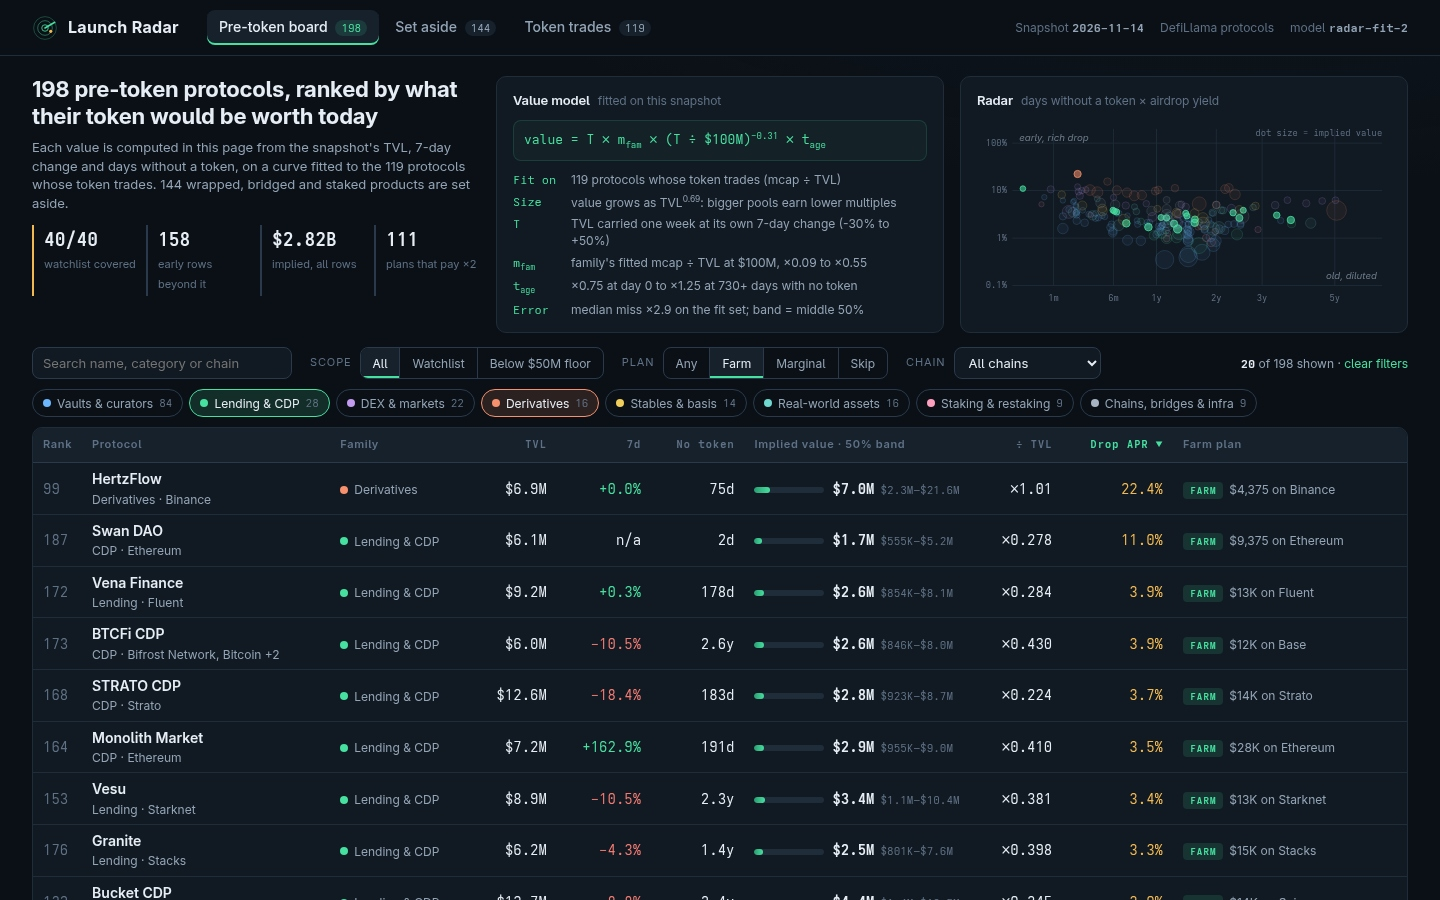
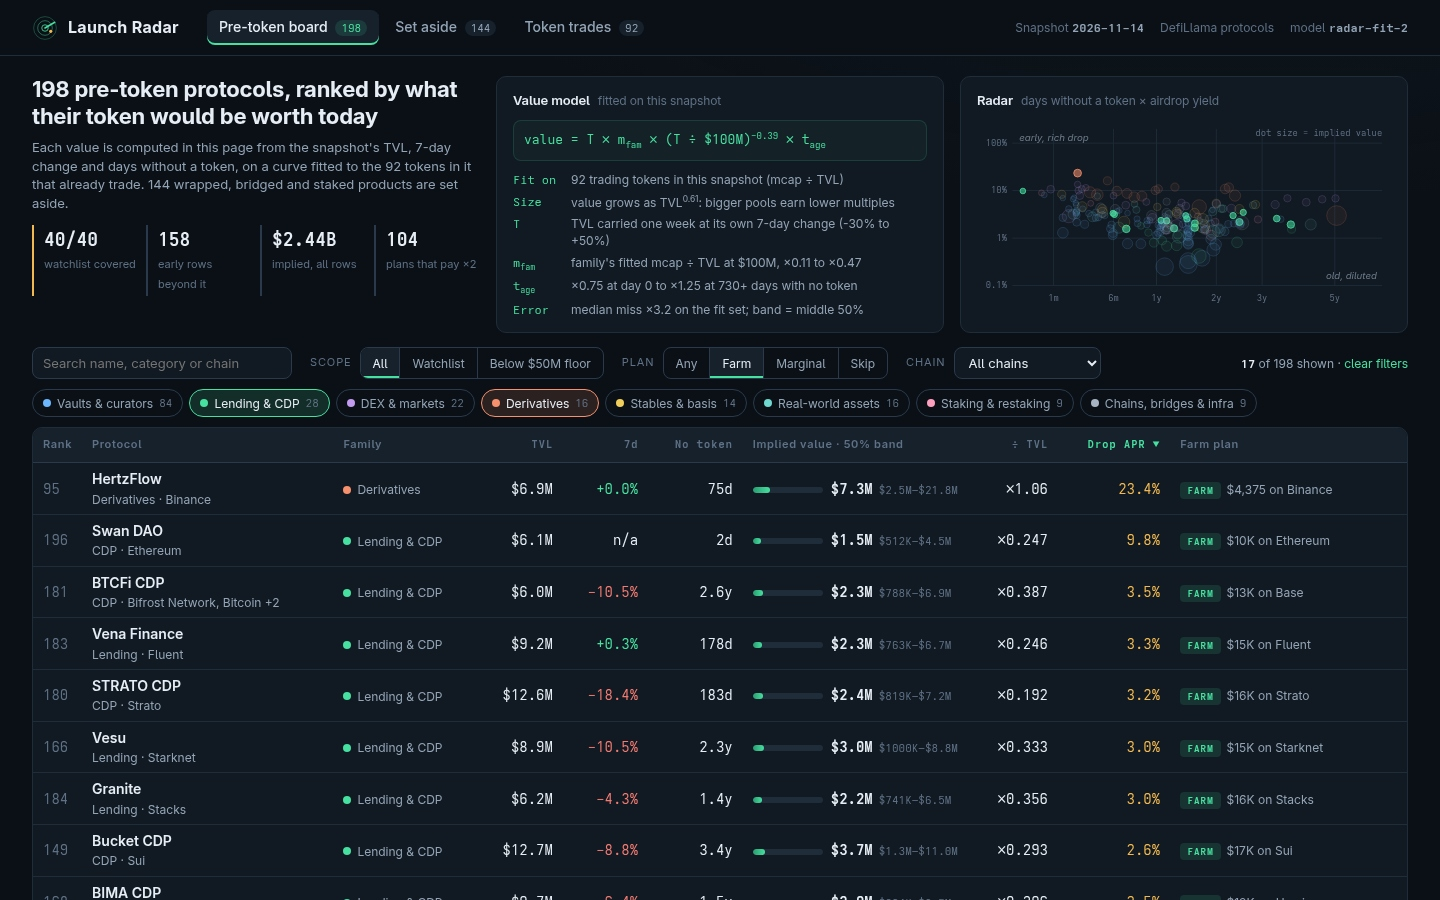
Fit on one point per token; pooled TVL in peer tables; preview captures

diff --git a/dashboard/app.js b/dashboard/app.js
@@ -85,7 +85,7 @@
       <h2>Value model <span>fitted on this snapshot</span></h2>
       <p class="eq">value = T × m<sub>fam</sub> × (T ÷ $100M)<sup>${fit.slope.toFixed(2)}</sup> × t<sub>age</sub></p>
       <dl>
-        <dt>Fit on</dt><dd>${fit.n} protocols whose token trades (mcap ÷ TVL)</dd>
+        <dt>Fit on</dt><dd>${fit.n} trading tokens in this snapshot (mcap ÷ TVL)</dd>
         <dt>Size</dt><dd>value grows as TVL<sup>${fit.elasticity.toFixed(2)}</sup>: bigger pools earn lower multiples</dd>
         <dt>T</dt><dd>TVL carried one week at its own 7-day change (${M.growth_floor}% to +${M.growth_cap}%)</dd>
         <dt>m<sub>fam</sub></dt><dd>family's fitted mcap ÷ TVL at $100M, ×${Math.min(...Object.values(fit.families).map((f) => f.multiple)).toFixed(2)} to ×${Math.max(...Object.values(fit.families).map((f) => f.multiple)).toFixed(2)}</dd>
@@ -128,7 +128,7 @@
     return `<section class="hero">
       <div class="lead">
         <h1>${rows.length} pre-token protocols, ranked by what their token would be worth today</h1>
-        <p>Each value is computed in this page from the snapshot's TVL, 7-day change and days without a token, on a curve fitted to the ${fit.n} protocols whose token trades. ${radar.products.length} wrapped, bridged and staked products are set aside.</p>
+        <p>Each value is computed in this page from the snapshot's TVL, 7-day change and days without a token, on a curve fitted to the ${fit.n} tokens in it that already trade. ${radar.products.length} wrapped, bridged and staked products are set aside.</p>
         <div class="kpis">
           <div><b>${watchCov}/${S.watchlist.length}</b><span>watchlist covered</span></div>
           <div><b>${rows.length - watchCov}</b><span>early rows beyond it</span></div>
@@ -157,7 +157,7 @@
     if (!r) return `<p class="empty">No ranked protocol is called ${esc(st.p)}. <a href="${link({ p: '' })}">Back to the board</a></p>`;
     const p = r.p, v = r.v, pl = r.plan, fam = fit.families[v.family];
     const peers = radar.live.filter((l) => l.family === v.family)
-      .sort((a, b) => Math.abs(Math.log(a.p.tvl_usd / p.tvl_usd)) - Math.abs(Math.log(b.p.tvl_usd / p.tvl_usd))).slice(0, 6);
+      .sort((a, b) => Math.abs(Math.log(a.tvl / p.tvl_usd)) - Math.abs(Math.log(b.tvl / p.tvl_usd))).slice(0, 6);
     const lo = Math.log10(Math.min(v.low, ...peers.map((x) => x.actual)) / 1.5), hi = Math.log10(Math.max(v.high, ...peers.map((x) => x.actual)) * 1.5);
     const pos = (x) => (100 * (Math.log10(x) - lo) / (hi - lo)).toFixed(2) + '%';
     const line = (label, src, val, cls) => `<tr class="${cls || ''}"><td>${label}<small>${src}</small></td><td class="num">${val}</td></tr>`;
@@ -191,7 +191,7 @@
         </section>
         <section class="card"><h2>Nearest trading peers <span>${esc(fam.label)}, closest TVL</span></h2>
           <table class="mini"><thead><tr><th>Protocol</th><th class="num">TVL</th><th class="num">Market cap</th><th class="num">÷ TVL</th><th class="num">Model fit</th></tr></thead><tbody>
-          ${peers.map((x) => `<tr><td>${esc(x.p.name)} <small>${esc(x.p.symbol || '')}</small></td><td class="num">${usd(x.p.tvl_usd)}</td><td class="num">${usd(x.actual)}</td><td class="num">${mult(x.actual / x.p.tvl_usd)}</td><td class="num">${usd(x.fit)}</td></tr>`).join('') || '<tr><td colspan="5">No trading peer in this family: the all-family multiple is used.</td></tr>'}
+          ${peers.map((x) => `<tr><td>${esc(x.p.name)} <small>${esc(x.p.symbol || '')}</small></td><td class="num">${usd(x.tvl)}</td><td class="num">${usd(x.actual)}</td><td class="num">${mult(x.actual / x.tvl)}</td><td class="num">${usd(x.fit)}</td></tr>`).join('') || '<tr><td colspan="5">No trading peer in this family: the all-family multiple is used.</td></tr>'}
           </tbody></table></section>
       </div>
       <section class="card planc"><h2>Farm plan <span>${pl.days} days on ${esc(pl.chain)}</span></h2>
@@ -220,9 +220,9 @@
 
   function trading() {
     const famRows = R.FAMILIES.map((f) => { const x = fit.families[f[0]]; return `<tr><td>${famChip(f[0])}</td><td class="num">${x.peers}</td><td class="num">${x.peers ? mult(x.raw) : '—'}</td><td class="num"><b>${mult(x.multiple)}</b></td></tr>`; }).join('');
-    const body = radar.live.map((l) => { const e = l.fit / l.actual; return `<tr><td class="proto"><span class="nm">${esc(l.p.name)}</span><small>${esc(l.p.symbol || '')} · ${esc(l.p.category || '')}</small></td><td>${famChip(l.family)}</td><td class="num">${usd(l.p.tvl_usd)}</td><td class="num">${usd(l.actual)}</td><td class="num">${mult(l.actual / l.p.tvl_usd)}</td><td class="num">${usd(l.fit)}</td><td class="num ${e > 2 || e < 0.5 ? 'down' : 'up'}">${mult(e)}</td></tr>`; }).join('');
-    return `<section class="intro"><h1>${fit.n} protocols whose token trades: the model's calibration set</h1>
-      <p>Kept apart from the board: their market already prices them. model.js calibrate() fits ln(mcap ÷ TVL) on ln(TVL) within each family (slope ${fit.slope.toFixed(3)}, so value grows as TVL<sup>${fit.elasticity.toFixed(2)}</sup>), then shrinks each family's multiple toward the all-family ${mult(fit.base)} with ${M.shrink_k} pseudo-peers. ${radar.listed_only} more protocols record a token with no market cap and are left out of both. Exchanges are excluded from the fit.</p></section>
+    const body = radar.live.map((l) => { const e = l.fit / l.actual; return `<tr><td class="proto"><span class="nm">${esc(l.p.name)}</span><small>${esc(l.p.symbol || '')} · ${esc(l.p.category || '')}</small></td><td>${famChip(l.family)}</td><td class="num">${usd(l.tvl)}${l.members > 1 ? ` <small>${l.members} parts</small>` : ''}</td><td class="num">${usd(l.actual)}</td><td class="num">${mult(l.actual / l.tvl)}</td><td class="num">${usd(l.fit)}</td><td class="num ${e > 2 || e < 0.5 ? 'down' : 'up'}">${mult(e)}</td></tr>`; }).join('');
+    return `<section class="intro"><h1>${fit.n} tokens that trade: the model's calibration set</h1>
+      <p>Kept apart from the board: their market already prices them. model.js calibrate() pools the TVL of protocols sharing one token, leaves out exchanges and wrapped, bridged or versioned products, and fits ln(mcap ÷ TVL) on ln(TVL) within each family (slope ${fit.slope.toFixed(3)}, so value grows as TVL<sup>${fit.elasticity.toFixed(2)}</sup>), then shrinks each family's multiple toward the all-family ${mult(fit.base)} with ${M.shrink_k} pseudo-peers. ${radar.listed_only} more protocols record a token with no market cap and sit on neither list.</p></section>
       <div class="split"><div class="card"><h2>Family multiples at $100M TVL</h2><table class="mini"><thead><tr><th>Family</th><th class="num">Peers</th><th class="num">Raw</th><th class="num">Used</th></tr></thead><tbody>${famRows}</tbody></table>
       <p class="note">Median miss on this set: ×${fit.median_error.toFixed(2)}; σ of ln error ${fit.sigma.toFixed(2)}.</p></div>
       <div class="tablewrap"><table class="board"><thead><tr><th>Protocol</th><th>Family</th><th class="num">TVL</th><th class="num">Market cap</th><th class="num">÷ TVL</th><th class="num">Model fit</th><th class="num">Fit ÷ market</th></tr></thead><tbody>${body}</tbody></table></div></div>`;

diff --git a/dashboard/model.js b/dashboard/model.js
@@ -77,11 +77,24 @@
   }
   function bySlug(a, b) { return a.slug < b.slug ? -1 : a.slug > b.slug ? 1 : 0; }
 
-  /* Fit the value curve on protocols whose token trades (exchanges left out: their token is not
-   * priced on deposits). Returns the slope, each family's multiple at $100M, and the fit's error. */
+  /* Fit the value curve on protocols whose token trades. One token is one point: protocols sharing a
+   * CoinGecko id (a v2 and v3, a lending arm and a DEX) pool their TVL, since DefiLlama hangs the
+   * whole token's market cap on each. Products and exchanges are left out by the same productOf rule
+   * that sets them aside on the board. Returns the slope, each family's multiple and the fit's error. */
   function calibrate(snap) {
-    var pts = snap.protocols.filter(function (p) { return trades(p) && p.category !== 'CEX' && p.tvl_usd > 0; }).map(function (p) {
-      return { p: p, f: family(p), x: Math.log(p.tvl_usd / M.ref_tvl), y: Math.log(clamp(p.mcap_usd / p.tvl_usd, M.ratio_floor, M.ratio_cap)) };
+    var tok = {}, order = [];
+    snap.protocols.forEach(function (p) {
+      if (!trades(p) || p.tvl_usd <= 0 || productOf(p)) return;
+      var k = p.gecko_id || p.symbol || p.slug;
+      if (!tok[k]) { tok[k] = { p: p, tvl: 0, mcap: 0, members: 0 }; order.push(k); }
+      var t = tok[k];
+      t.tvl += p.tvl_usd; t.members++;
+      t.mcap = Math.max(t.mcap, p.mcap_usd);
+      if (p.tvl_usd > t.p.tvl_usd) t.p = p;
+    });
+    var pts = order.map(function (k) {
+      var t = tok[k];
+      return { p: t.p, tvl: t.tvl, mcap: t.mcap, members: t.members, f: family(t.p), x: Math.log(t.tvl / M.ref_tvl), y: Math.log(clamp(t.mcap / t.tvl, M.ratio_floor, M.ratio_cap)) };
     });
     var g = {};
     pts.forEach(function (q) { (g[q.f] = g[q.f] || []).push(q); });
@@ -108,7 +121,7 @@
     pts.forEach(function (q) {
       var r = q.y - (fams[q.f].ln + b * q.x);
       ss += r * r; abs.push(Math.abs(r));
-      q.fit = Math.round(q.p.tvl_usd * Math.exp(fams[q.f].ln + b * q.x));
+      q.fit = Math.round(q.tvl * Math.exp(fams[q.f].ln + b * q.x));
     });
     abs.sort(function (u, v) { return u - v; });
     var sigma = Math.sqrt(ss / Math.max(1, pts.length - Object.keys(g).length - 1));
@@ -216,7 +229,7 @@
     });
     rows.sort(function (a, b) { return b.v.implied - a.v.implied || bySlug(a.p, b.p); });
     rows.forEach(function (r, i) { r.rank = i + 1; });
-    var live = fit.points.map(function (q) { return { p: q.p, family: q.f, fit: q.fit, actual: q.p.mcap_usd }; })
+    var live = fit.points.map(function (q) { return { p: q.p, tvl: q.tvl, members: q.members, family: q.f, fit: q.fit, actual: q.mcap }; })
       .sort(function (a, b) { return b.actual - a.actual || bySlug(a.p, b.p); });
     var listedOnly = snap.protocols.filter(function (p) { return hasToken(p) && !trades(p); }).length;
     return { model: M, fit: fit, rows: rows, live: live, products: products, listed_only: listedOnly, age_fallback: ageFallback, families: FAMILIES };
